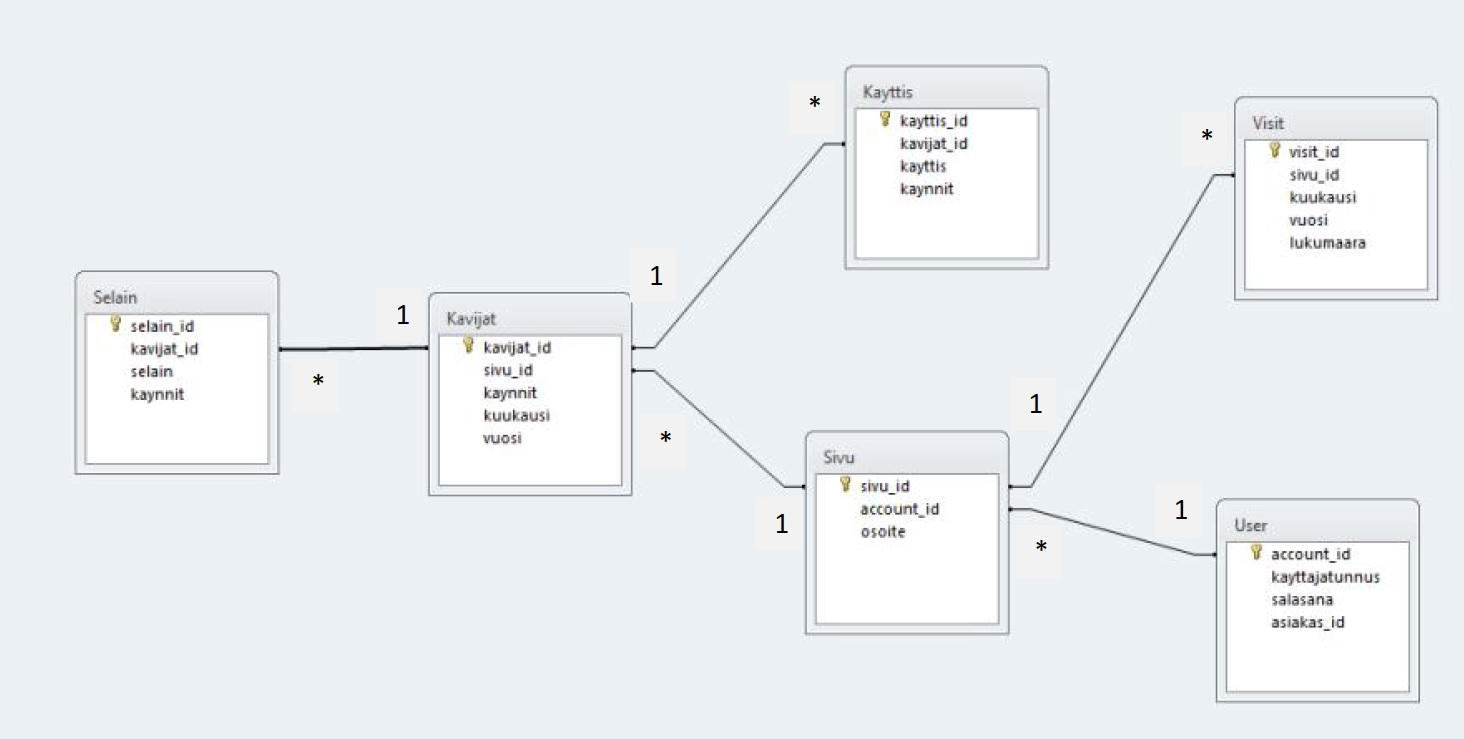
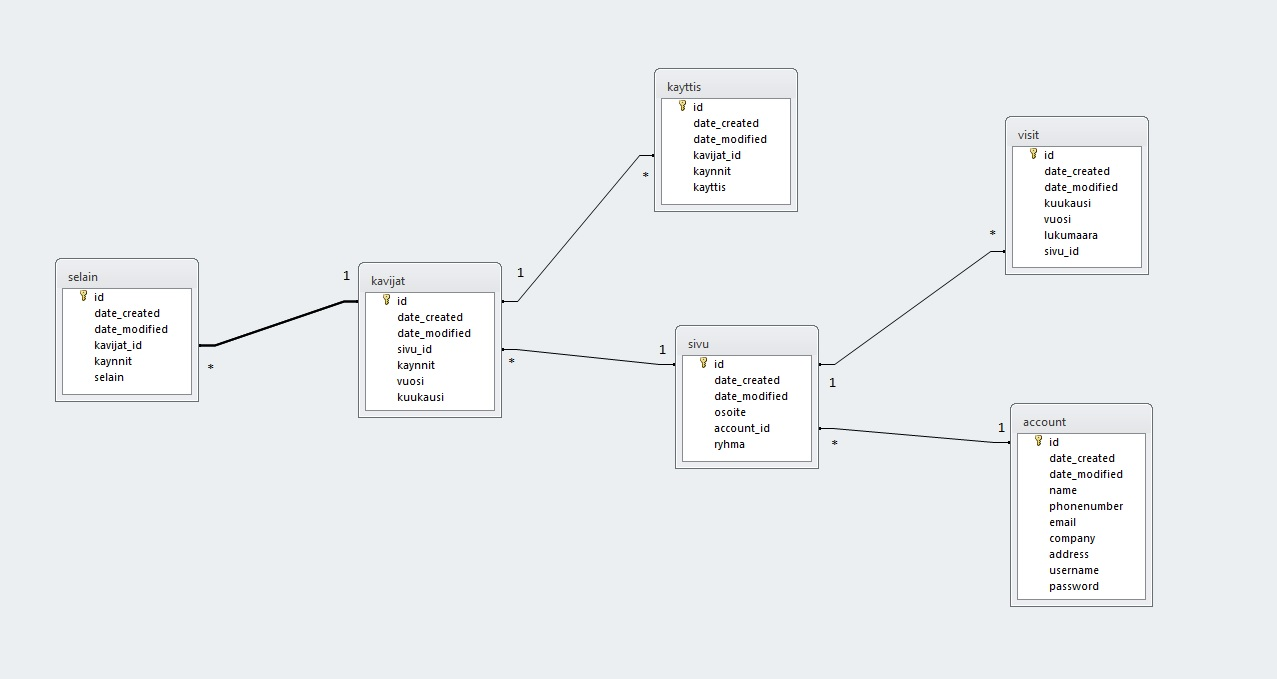
documentation

diff --git a/application/kavijat/models.py b/application/kavijat/models.py
@@ -8,8 +8,8 @@ class Kavijat(Base):
     sivu_id = db.Column(db.Integer, db.ForeignKey('sivu.id'))
 
     kaynnit = db.Column(db.Integer, nullable=False)
-    vuosi = db.Column(db.String(144), nullable=False)
-    kuukausi = db.Column(db.String(144), nullable=False)
+    vuosi = db.Column(db.Integer, nullable=False)
+    kuukausi = db.Column(db.Integer, nullable=False)
 
     def __init__(self, kaynnit, vuosi, kuukausi):
         self.kaynnit = kaynnit

diff --git a/documentation/vaatimusmaarittely.md b/documentation/vaatimusmaarittely.md
@@ -15,43 +15,43 @@ Käyttäjien tietoja myös salasanaa, pois lukien käyttäjänimi, on mahdollist
 Käyttäjän haku kirjautuessa:
 
 ```
-SELECT * FROM account WHERE username = form.username.data AND password = form.password.data
+SELECT * FROM account WHERE username = form.username.data AND password = form.password.data;
 ```
 
 Rekistöröityessä varmistetaan ettei käyttäjänimi varattu
 
 ```
-SELECT * FROM account WHERE username = form.username.data
+SELECT * FROM account WHERE username = form.username.data;
 ```
 
 Käyttäjän rekistöröityminen eli uuden käyttäjän lisäys: 
 
 ```
-INSERT INTO account (name, password, email, company, address, username, password) VALUES(form.name.data, form.phonenumber.data, form.email.data, form.company.data, form.address.data, form.username.data, form.password.data)
+INSERT INTO account (name, password, email, company, address, username, password) VALUES(form.name.data, form.phonenumber.data, form.email.data, form.company.data, form.address.data, form.username.data, form.password.data);
 ```
 
 Käyttäjän tietojen päivitys eli muokkaus: 
 
 ```
-UPDATE account SET name=newform.name.data, phonenumber=newform.phonenumber.data, email=newform.email.data, company=newform.company.data, address=newform.address.data, password=newform.password.data WHERE id=current_user.id
+UPDATE account SET name=newform.name.data, phonenumber=newform.phonenumber.data, email=newform.email.data, company=newform.company.data, address=newform.address.data, password=newform.password.data WHERE id=current_user.id;
 ```
 
 Käyttäjän tietojen muokkausta varten haetaan tiedot ennen lomaketta: 
 
 ```
-SELECT * FROM account WHERE id = current_user.id
+SELECT * FROM account WHERE id = current_user.id;
 ```
 
 Käyttäjän poisto: 
 
 ```
-DELETE FROM account WHERE id = id
+DELETE FROM account WHERE id = id;
 ```
 
 Käyttäjien yrityksien listaus: 
 
 ```
-SELECT company FROM account
+SELECT company FROM account;
 ```
 
 ### Nettisivujen käynnit
@@ -67,19 +67,19 @@ Uuden tietueen lisäys:
 Haetaan onko nettisivu jo lisätty
 
 ```
-SELECT * FROM sivu WHERE osoite = form.website.data
+SELECT * FROM sivu WHERE osoite = form.website.data;
 ```
 
 Jos ei niin lisätään
 
 ```
-INSERT INTO sivu (osoite, account_id, ryhma) VALUES (form.website.data, current_user.id, form.websiteGroup.data)
+INSERT INTO sivu (osoite, account_id, ryhma) VALUES (form.website.data, current_user.id, form.websiteGroup.data);
 ```
 
 Lopuksi käynnin lisäys
 
 ```
-INSERT INTO sivu (kuukausi, vuosi, lukumaara, sivu_id) VALUES (form.month.data, form.year.data, form.VisitAmount.data, sivuId)
+INSERT INTO sivu (kuukausi, vuosi, lukumaara, sivu_id) VALUES (form.month.data, form.year.data, form.VisitAmount.data, sivuId);
 ```
 
 Kahden vuoden käyntien vertailussa sivu käyntien haku: 
@@ -87,13 +87,13 @@ Kahden vuoden käyntien vertailussa sivu käyntien haku:
 Mihin vuoteen verrataan kaikki suv käynnit kuukaudelta
 
 ```
-SELECT * FROM visit, sivu WHERE visit.kuukausi = form.month.data AND visit.vuosi = form.year.data AND visit.sivu_id = sivu.id AND sivu.account_id = current_user.id
+SELECT * FROM visit, sivu WHERE visit.kuukausi = form.month.data AND visit.vuosi = form.year.data AND visit.sivu_id = sivu.id AND sivu.account_id = current_user.id;
 ```
 
 Vuosi jota verrataan, kaikki käyntimäärät kuukaudessa
 
 ```
-SELECT * FROM visit, sivu WHERE visit.kuukausi = form.month.data AND visit.vuosi = form.year2.data AND visit.sivu_id = sivu.id AND sivu.account_id = current_user.id
+SELECT * FROM visit, sivu WHERE visit.kuukausi = form.month.data AND visit.vuosi = form.year2.data AND visit.sivu_id = sivu.id AND sivu.account_id = current_user.id;
 ```
 
 ### Kävijät nettisivuilla
@@ -109,7 +109,7 @@ Haetaan onko nettisivu jo lisätty
 #### kyselyt
 
 ```
-SELECT * FROM sivu WHERE osoite = form.website.data
+SELECT * FROM sivu WHERE osoite = form.website.data;
 ```
 
 Jos ei niin lisätään
@@ -117,35 +117,35 @@ Jos ei niin lisätään
 Haetaan onko nettisivu jo lisätty
 
 ```
-SELECT * FROM sivu WHERE osoite = form.website.data
+SELECT * FROM sivu WHERE osoite = form.website.data;
 ```
 
 Jos ei niin lisätään
 
 ```
-INSERT INTO sivu (osoite, account_id, ryhma) VALUES (form.website.data, current_user.id, form.websiteGroup.data)
+INSERT INTO sivu (osoite, account_id, ryhma) VALUES (form.website.data, current_user.id, form.websiteGroup.data);
 ```
 
 Lopuksi toteutetaan lisäykset
 
 ```
-INSERT INTO kayttis (kavijat_id, kaynnit, kayttis) VALUES (result.id, form.visitorsAmount.data, form.systemName.data)
-INSERT INTO selain (kavijat_id, kaynnit, selain) VALUES (result.id, form.visitorsAmount.data, form.browser.data)
-INSERT INTO kavijat (sivu_id, kaynnit, vuosi, kuukausi) VALUES (sivuId, form.visitorsAmount.data, form.year.data, form.month.data)
+INSERT INTO kayttis (kavijat_id, kaynnit, kayttis) VALUES (result.id, form.visitorsAmount.data, form.systemName.data);
+INSERT INTO selain (kavijat_id, kaynnit, selain) VALUES (result.id, form.visitorsAmount.data, form.browser.data);
+INSERT INTO kavijat (sivu_id, kaynnit, vuosi, kuukausi) VALUES (sivuId, form.visitorsAmount.data, form.year.data, form.month.data);
 ```
 
 Kävijämäärien tietynä kuukautena eri sivuilla listaus: 
 
 ```
-SELECT kavijat.id AS id, kayttis.kayttis AS kayttis, selain.selain AS selain, kavijat.kaynnit AS kaynnit, sivu.osoite AS tulosivu FROM kavijat, selain, kayttis, sivu WHERE kavijat.id = kayttis.kavijat_id AND kavijat.id = selain.kavijat_id AND kavijat.kuukausi = form.month.data AND kavijat.vuosi = form.year.data AND kavijat.sivu_id = sivu.id AND sivu.account_id = current_user.id
+SELECT kavijat.id AS id, kayttis.kayttis AS kayttis, selain.selain AS selain, kavijat.kaynnit AS kaynnit, sivu.osoite AS tulosivu FROM kavijat, selain, kayttis, sivu WHERE kavijat.id = kayttis.kavijat_id AND kavijat.id = selain.kavijat_id AND kavijat.kuukausi = form.month.data AND kavijat.vuosi = form.year.data AND kavijat.sivu_id = sivu.id AND sivu.account_id = current_user.id;
 ```
 
 Kävijä tietueen poisto: 
 
 ```
-DELETE FROM kavijat WHERE id = visitor_id
-DELETE FROM selain WHERE kavijat_id = visitor_id
-DELETE FROM kayttis WHERE kavijat_id = visitor_id
+DELETE FROM kavijat WHERE id = visitor_id;
+DELETE FROM selain WHERE kavijat_id = visitor_id;
+DELETE FROM kayttis WHERE kavijat_id = visitor_id;
 ```
 
 ### Yhteenvedot
@@ -162,25 +162,25 @@ Yhteenvetoja on neljää erilaista, jotka ovat
 Ensimmäinen kysely: 
 
 ```
-SELECT sivu.osoite, SUM(visit.lukumaara) AS maara FROM sivu, visit WHERE visit.vuosi = form.year.data AND visit.sivu_id = sivu.id AND sivu.account_id = current_user.id GROUP BY sivu.osoite
+SELECT sivu.osoite, SUM(visit.lukumaara) AS maara FROM sivu, visit WHERE visit.vuosi = form.year.data AND visit.sivu_id = sivu.id AND sivu.account_id = current_user.id GROUP BY sivu.osoite;
 ```
 
 Toinen kysely: 
 
 ```
-SELECT sivu.ryhma AS ryhma, SUM(visit.lukumaara) AS maara FROM sivu, visit WHERE visit.vuosi = form.year.data AND visit.kuukausi = form.month.data AND visit.sivu_id = sivu.id AND sivu.account_id = current_user.id GROUP BY sivu.ryhma
+SELECT sivu.ryhma AS ryhma, SUM(visit.lukumaara) AS maara FROM sivu, visit WHERE visit.vuosi = form.year.data AND visit.kuukausi = form.month.data AND visit.sivu_id = sivu.id AND sivu.account_id = current_user.id GROUP BY sivu.ryhma;
 ```
 
 Kolmas kysely: 
 
 ```
-SELECT selain.selain AS nimi, SUM(selain.kaynnit) AS maara FROM sivu, selain, kavijat WHERE selain.kavijat_id = kavijat.id AND kavijat.vuosi = form.year.data AND kavijat.sivu_id = sivu.id AND sivu.account_id = current_user.id GROUP BY selain.selain
+SELECT selain.selain AS nimi, SUM(selain.kaynnit) AS maara FROM sivu, selain, kavijat WHERE selain.kavijat_id = kavijat.id AND kavijat.vuosi = form.year.data AND kavijat.sivu_id = sivu.id AND sivu.account_id = current_user.id GROUP BY selain.selain;
 ```
 
 Neljäs kysely: 
 
 ```
-SELECT sivu.osoite, SUM(kavijat.kaynnit) AS maara FROM sivu, kavijat WHERE kavijat.vuosi = form.year.data AND kavijat.sivu_id = sivu.id AND sivu.account_id = current_user.id GROUP BY sivu.osoite
+SELECT sivu.osoite, SUM(kavijat.kaynnit) AS maara FROM sivu, kavijat WHERE kavijat.vuosi = form.year.data AND kavijat.sivu_id = sivu.id AND sivu.account_id = current_user.id GROUP BY sivu.osoite;
 ```
 
 ## Jatkokehitys suuntia
@@ -191,3 +191,4 @@ SELECT sivu.osoite, SUM(kavijat.kaynnit) AS maara FROM sivu, kavijat WHERE kavij
 * Mahdollisuus saada kokonaistulos listauksiin. Myös vuosien välinen erotus käyntien vertailuun kaikille sivuille.
 * Yhteenvetojen graaffinen visualisointi.
 * Lisää datan syöttö ja käyttö mahdollisuuksia.
+* Käyttäjä tasojen luonti. Esimerkiksi admin, moderator ja normaali käyttäjä.

diff --git a/documentation/arkitehtuuri.md b/documentation/arkitehtuuri.md
@@ -1,0 +1,39 @@
+# Arkkitehtuurikuvaus
+
+## Käyttäliittymä
+
+Käyttöliittymä on luotu käyttäen hyväksi bootstrappia ja normaaleja html tagejä. Sivujen tyylityksestä kuitenkin hoitaa _layout.html_ sisältämä style-tagi, joka sisältää puhdasta css-koodia. Käyttöliitymä on pyritty kehityksen aikana pitämään mahdollisimman saavutettavana kaikenlaisille käyttäjille ja tämän vuoksi muun muassa kontrasteihin on panostettu värien valinnassa. 
+
+Rakenteeltaan käyttöliittymä on myös suhteellisen yksinkertainen ja moniin paikkoihin pääsee yhdellä napautuksella, jos listausten ja yhteenvetojen lomake vaihetta ei lasketa. 
+
+## Tietokanta
+
+Sovellus käyttää paikallisesti sqlite tiedonhallinta järjestelmää, mutta muuten postgresql tietokantaa. Tietokanta näyttää vastaavalta
+
+![tietokantakaavio](kaaviot/tietokantakaavio.jpg)
+
+Tietokanta taulut on luotu seuraavilla kyselyillä
+
+```
+CREATE TABLE account(id INTEGER PRIMARY KEY, data_created TIMESTAMP, data_modified TIMESTAMP, name VARCHAR(144), phonenumber VARCHAR(144), email VARCHAR(144), company VARCHAR(144), address VARCHAR(144), username VARCHAR(144), password VARCHAR(144));
+CREATE TABLE sivu(id INTEGER PRIMARY KEY, data_created TIMESTAMP, data_modified TIMESTAMP, osoite VARCHAR(144), account_id INTEGER, ryhma VARCHAR(144), FOREIGN KEY(account_id) REFERENCES account(id));
+CREATE TABLE visit(id INTEGER PRIMARY KEY, data_created TIMESTAMP, data_modified TIMESTAMP, kuukausi INTEGER, vuosi INTEGER, lukumaara INTEGER, sivu_id INTEGER, FOREIGN KEY(sivu_id) REFERENCES sivu(id));
+CREATE TABLE kavijat(id INTEGER PRIMARY KEY, data_created TIMESTAMP, data_modified TIMESTAMP, sivu_id INTEGER, kaynnit INTEGER, vuosi INTEGER, kuukausi INTEGER, FOREIGN KEY(sivu_id) REFERENCES sivu(id));
+CREATE TABLE kayttis(id INTEGER PRIMARY KEY, data_created TIMESTAMP, data_modified TIMESTAMP, kavijat_id INTEGER, kaynnit INTEGER, kayttis VARCHAR(144), FOREIGN KEY(kavijat_id) REFERENCES kavijat(id));
+CREATE TABLE selain(id INTEGER PRIMARY KEY, data_created TIMESTAMP, data_modified TIMESTAMP, kavijat_id INTEGER, kaynnit INTEGER, selain VARCHAR(144), FOREIGN KEY(kavijat_id) REFERENCES kavijat(id));
+```
+
+## Tiedostot
+
+Toimivuuden ja jatkokehityksen kannalta tärkein tiedosto on [requirements.txt](https://github.com/Jhoneagle/TilastointiOhjelma/blob/master/requirements.txt). Sillä tämä sisältää tiedon kaikista python kirjastoista ja niiden varmasti toimivasta versiosta mitä ohjelma tarvitsee.
+
+Jos sovellus laitetaan Herokuun niin tällöin oleellinen tiedosto on myös [Procfile](https://github.com/Jhoneagle/TilastointiOhjelma/blob/master/Procfile). Mikä sisältää tiedon siitö mikä python tiedosto toimii käynnistys tiedostona.
+
+Manuaalista käynnistystä varten oleellinen python tiedosto kuitenkin on [runserver.py](https://github.com/Jhoneagle/TilastointiOhjelma/blob/master/runserver.py). Sillä _runserver.py_ sisältää aloitus kutsun sekä hostin määrityksen. Paikallisesti yleensä _https:\\localhost:5555_.
+
+## Ohjelman heikkoudet sekä rajoitukset
+
+* Ohjelma ei sivuta listauksia, kun on kyse suuresta määrästä dataa.
+* Se ei myöskään sisällä takaisin painiketta vaikkakin se ei myöskään ole kaikialla edes välttämätön nopean uudelleen pääsyn takia. 
+* Käynti tietoja ei pysty poistamaan.
+* Mitään lisättyjä tetueita ei voi myöskään muokata, joten kävijä tietojen muokkaus tapahtuu poistamalla ja uudelleen lisäämällä. 
